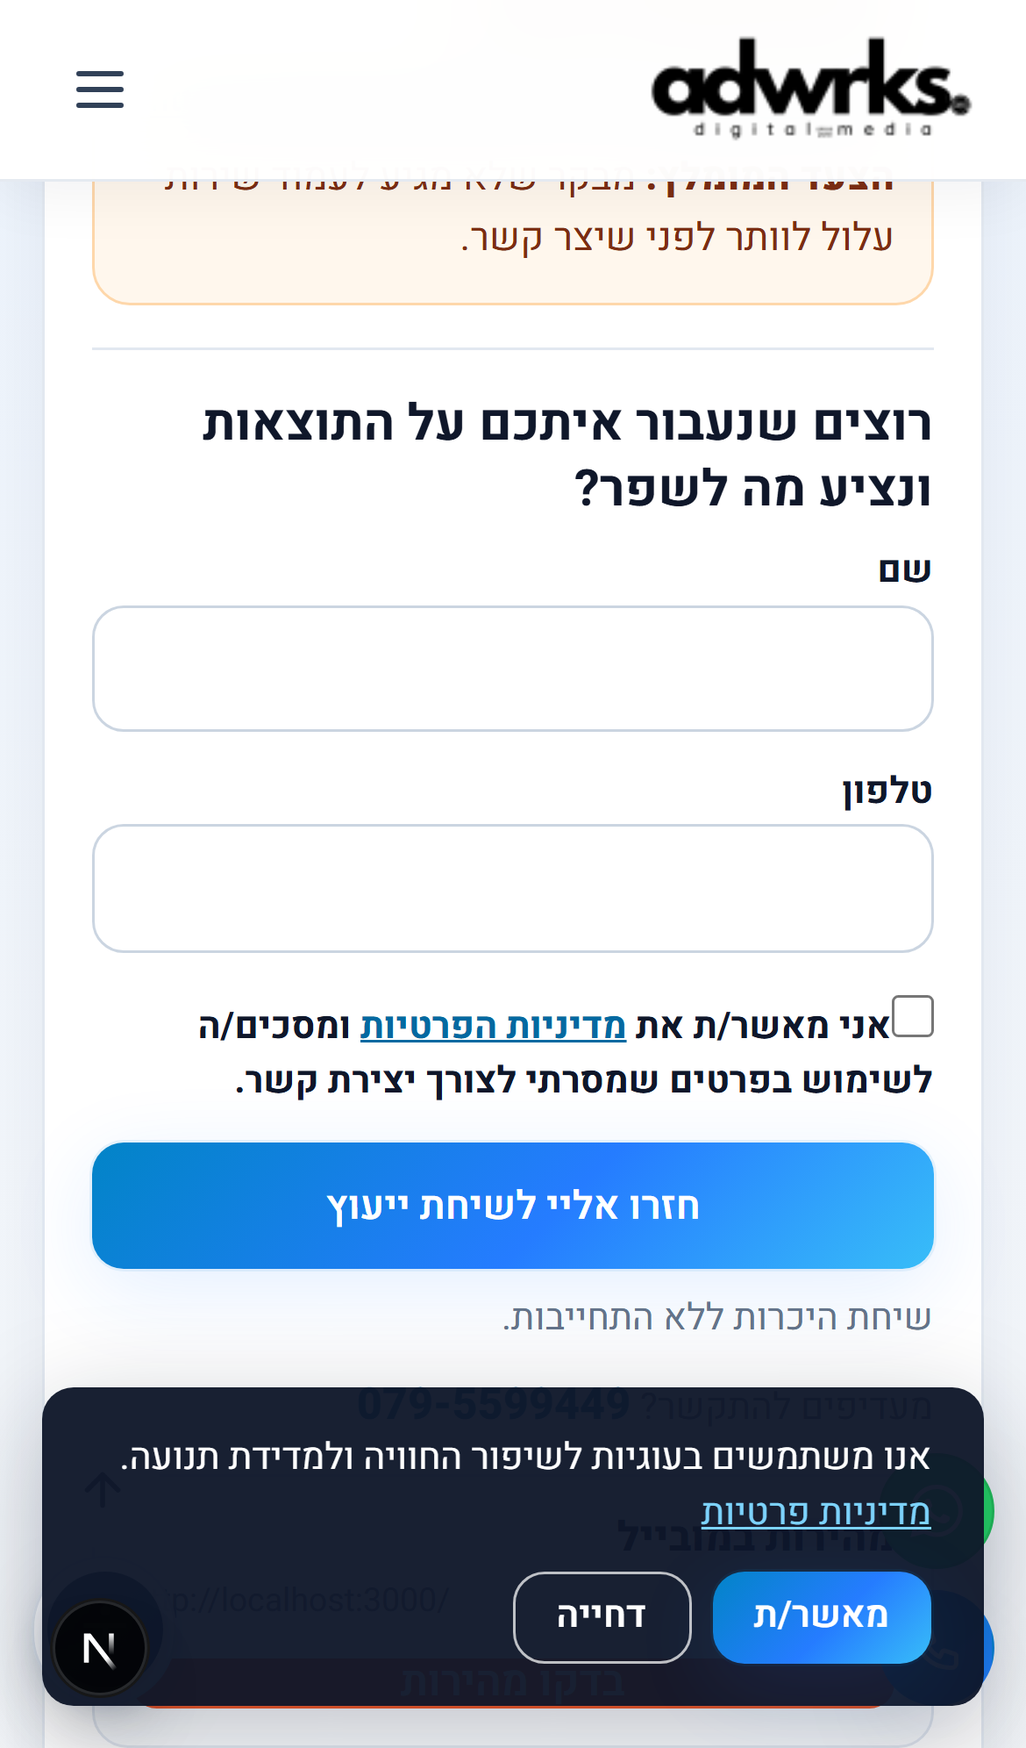
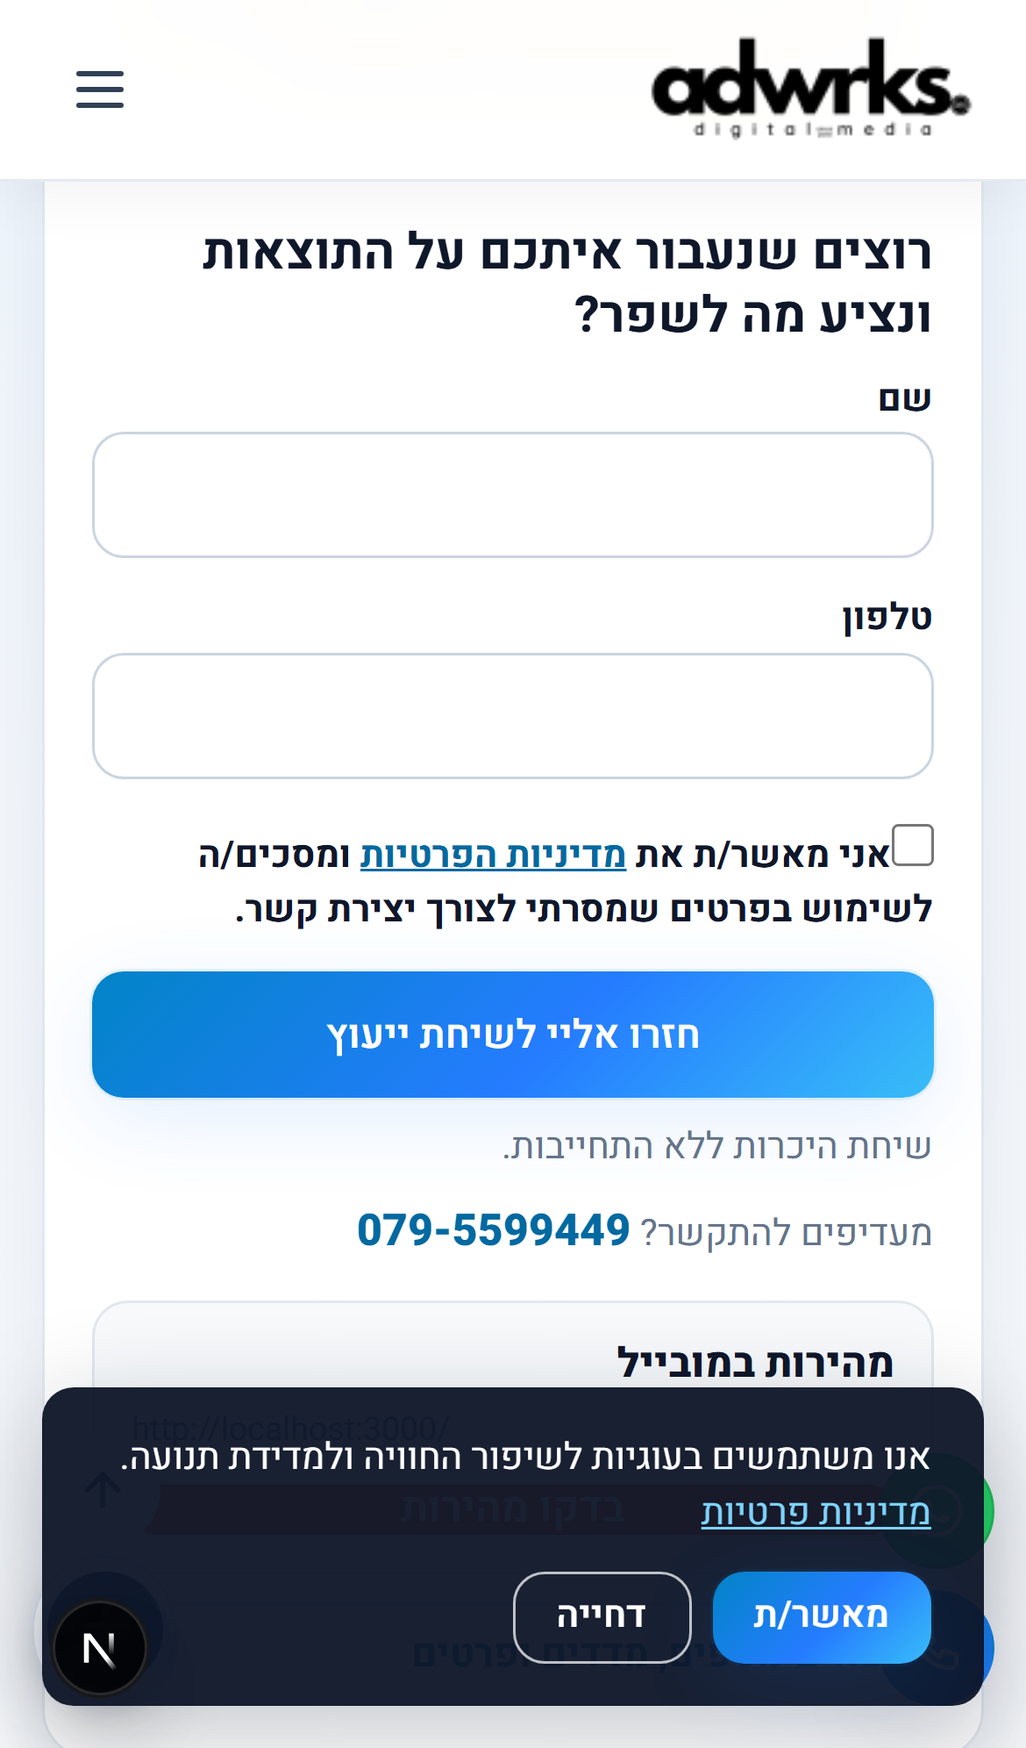
feat(site-check): practical recommended steps per finding type
Each finding shows recommended step and why separately; consult bridge before form; clear-state form asks which pages to grow for inquiries.

diff --git a/web/src/lib/site-check/findings.ts b/web/src/lib/site-check/findings.ts
@@ -265,6 +265,7 @@ const COPY = {
         count > 1
           ? `מצאנו ${count} קישורים שבורים לעמודי שירות או פעולות מרכזיות. לדוגמה: ${example}`
           : `קישור שבור לעמוד שירות או פעולה מרכזית: ${example}`,
+      step: "תקנו את הקישור או עדכנו אותו לעמוד הקיים, ובדקו במובייל שהכפתור מוביל ליעד הנכון.",
       why: "מבקר שלא מגיע לעמוד שירות עלול לוותר לפני שיצר קשר.",
     },
     "noindex-service": {
@@ -272,14 +273,17 @@ const COPY = {
         count > 1
           ? `ל־${count} עמודי שירות או תמחור יש סימון noindex — הם עלולים לא להופיע בחיפוש.`
           : "עמוד שירות או תמחור מסומן ב-noindex.",
+      step: "הסירו noindex מעמודי שירות ותמחור שאתם רוצים לקדם, וודאו שיש להם קישור פנימי מדף הבית.",
       why: "עמוד שמציע שירות אבל חסום לאינדוקס קשה למצוא אותו בגוגל.",
     },
     noindex: {
       observation: "העמוד מסומן ב-noindex.",
+      step: "בדקו אם העמוד צריך להופיע בגוגל — אם כן, הסירו noindex או את תג החסימה במערכת הניהול.",
       why: "עמוד שמסומן כך יכול שלא להופיע בגוגל, גם כשהוא חשוב לשירות.",
     },
     "missing-title": {
       observation: "לא מצאנו כותרת עמוד (title).",
+      step: "הוסיפו כותרת עמוד ייחודית שמתארת את השירות או המוצר, ב־50–60 תווים בערך.",
       why: "בלי כותרת, קשה לגולש ולגוגל להבין במה העמוד עוסק.",
     },
     "duplicate-title": {
@@ -289,6 +293,7 @@ const COPY = {
           : other
             ? `כותרת העמוד זהה לכותרת של «${other}».`
             : "לכמה עמודים חשובים יש אותה כותרת.",
+      step: "תנו לכל עמוד שירות כותרת שונה שמזכירה בדיוק את מה שמוצע שם.",
       why: "כששני עמודים נראים אותו דבר בתוצאות, קשה יותר להגיע לשירות הנכון.",
     },
     "duplicate-description": {
@@ -296,6 +301,7 @@ const COPY = {
         count > 2
           ? `ל־${count} עמודים חשובים יש אותו תיאור מטא (description).`
           : "לשני עמודים חשובים יש אותו תיאור מטא (description).",
+      step: "כתבו תיאור מטא נפרד לכל עמוד חשוב — משפט אחד שמסביר למה ללחוץ עליו בתוצאות החיפוש.",
       why: "כשתיאור המטא זהה, גוגל עלול להציג אותו קטע בכמה עמודים שונים.",
     },
     "broken-image": {
@@ -303,26 +309,32 @@ const COPY = {
         count > 1
           ? `מצאנו ${count} תמונות מרכזיות שלא נטענו (404/410). לדוגמה: ${example}`
           : `תמונה מרכזית לא נטענה (404/410): ${example}`,
+      step: "העלו מחדש את התמונה או עדכנו את הקישור אליה, ודחסו אותה לגודל סביר למובייל.",
       why: "תמונה שבורה בעמוד חשוב פוגעת ברושם הראשוני ובאמינות העמוד.",
     },
     "missing-h1": {
       observation: "לא מצאנו כותרת ראשית (H1) ב-HTML של העמוד.",
+      step: "הוסיפו כותרת ראשית אחת ברורה בראש העמוד — מה אתם מציעים במשפט קצר.",
       why: "בלי כותרת ראשית, מי שנכנס לעמוד עלול לא להבין מיד מה מציעים כאן.",
     },
     "phone-not-tappable": {
       observation: "זיהינו מספר טלפון שאינו לחיץ.",
+      step: "הפכו את המספר לקישור tel: באזור הגלוי, במיוחד בעמוד הבית וביצירת קשר.",
       why: "במובייל זה מוסיף שלב למי שרוצה להתקשר.",
     },
     "no-contact-path": {
       observation: "בעמודים שנבדקו לא מצאנו קישור חיוג, וואטסאפ או טופס.",
+      step: "הוסיפו למעלה בעמוד כפתור «התקשרו» או «השאירו פרטים» שמוביל לטופס או לוואטסאפ.",
       why: "לקוח שכבר נמצא באתר לא רואה דרך ברורה להתקשר או להשאיר פרטים.",
     },
     "nav-missing-contact": {
       observation: "בניווט הראשי לא מצאנו קישור ליצירת קשר.",
+      step: "הוסיפו «יצירת קשר» או «חזרו אליי» לתפריט העליון, גלוי גם במובייל.",
       why: "מי שמחפש איך לפנות אליכם צריך למצוא את זה מחוץ לתפריט.",
     },
     "missing-description": {
       observation: "לא מצאנו תיאור מטא.",
+      step: "כתבו תיאור מטא קצר שמסכם את העמוד ומעודד לחיצה — במיוחד בדף הבית ובשירותים.",
       why: "בגוגל עלול להופיע קטע אקראי מהעמוד במקום משפט שמתאר את השירות.",
     },
     "product-no-purchase": {
@@ -330,6 +342,7 @@ const COPY = {
         count > 1
           ? `ב־${count} עמודי מוצר לא מצאנו כפתור רכישה או הוספה לסל ברור.`
           : "בעמוד מוצר לא מצאנו כפתור רכישה או הוספה לסל ברור.",
+      step: "הציגו כפתור «הוסף לסל» או «לרכישה» גלוי מעל הקיפול במובייל.",
       why: "קונים שמגיעים לעמוד מוצר עלולים לא להבין איך להמשיך לרכישה.",
     },
     whyLabel: "למה זה חשוב",
@@ -340,6 +353,7 @@ const COPY = {
         count > 1
           ? `We found ${count} broken links to service pages or key actions. Example: ${example}`
           : `Broken link to a service page or key action: ${example}`,
+      step: "Fix or replace the link, then tap the button on a phone to confirm it opens the right page.",
       why: "A visitor who can't reach a service page may give up before contacting you.",
     },
     "noindex-service": {
@@ -347,14 +361,17 @@ const COPY = {
         count > 1
           ? `${count} service or pricing pages are marked noindex — they may not appear in search.`
           : "A service or pricing page is marked noindex.",
+      step: "Remove noindex from service and pricing pages you want in Google, and link to them from the homepage.",
       why: "A page that sells a service but blocks indexing is harder to find on Google.",
     },
     noindex: {
       observation: "This page is marked noindex.",
+      step: "If the page should rank, remove noindex in your CMS or SEO plugin and republish.",
       why: "A page marked this way can stay out of Google, even when it matters for the service.",
     },
     "missing-title": {
       observation: "We didn't find a page title.",
+      step: "Add a unique title tag that names the service or product — roughly 50–60 characters.",
       why: "Without a title, visitors and Google have less to go on about what the page offers.",
     },
     "duplicate-title": {
@@ -364,6 +381,7 @@ const COPY = {
           : other
             ? `The page title is the same as «${other}».`
             : "Several important pages share the same title.",
+      step: "Give each service page its own title that says exactly what is offered there.",
       why: "When two pages look the same in search, it's harder to reach the right service.",
     },
     "duplicate-description": {
@@ -371,6 +389,7 @@ const COPY = {
         count > 2
           ? `${count} important pages share the same meta description.`
           : "Two important pages share the same meta description.",
+      step: "Write a separate meta description per important page — one line on why to click.",
       why: "When meta descriptions match, Google may show the same snippet for different pages.",
     },
     "broken-image": {
@@ -378,26 +397,32 @@ const COPY = {
         count > 1
           ? `${count} hero images failed to load (404/410). Example: ${example}`
           : `A hero image failed to load (404/410): ${example}`,
+      step: "Re-upload the image or fix the URL, and compress it for mobile.",
       why: "A broken image on an important page hurts first impressions and trust.",
     },
     "missing-h1": {
       observation: "We didn't find a main heading (H1) in the page HTML.",
+      step: "Add one clear H1 at the top of the page stating what you offer in plain language.",
       why: "Without a main heading, someone landing on the page may not see the offer right away.",
     },
     "phone-not-tappable": {
       observation: "We found a phone number that isn't a tap-to-call link.",
+      step: "Wrap the number in a tel: link on the homepage and contact page.",
       why: "On a phone, that adds a step for someone who wants to call.",
     },
     "no-contact-path": {
       observation: "On the pages we checked, we didn't find a call link, WhatsApp link, or form.",
+      step: "Add a visible «Call us» or «Leave details» button that opens a form or WhatsApp.",
       why: "A visitor who is already on the site doesn't see a clear way to call or leave details.",
     },
     "nav-missing-contact": {
       observation: "The main navigation doesn't include a contact link.",
+      step: "Add «Contact» to the main menu, including the mobile menu.",
       why: "Someone looking for how to reach you has to find it outside the menu.",
     },
     "missing-description": {
       observation: "We didn't find a meta description.",
+      step: "Add a short meta description on the homepage and key service pages.",
       why: "Google may show a random snippet instead of a sentence that describes the service.",
     },
     "product-no-purchase": {
@@ -405,6 +430,7 @@ const COPY = {
         count > 1
           ? `On ${count} product pages we didn't find a clear buy or add-to-cart action.`
           : "On a product page we didn't find a clear buy or add-to-cart action.",
+      step: "Show an «Add to cart» or «Buy» button above the fold on mobile.",
       why: "Shoppers who land on a product page may not see how to continue to purchase.",
     },
     whyLabel: "Why it matters",
@@ -415,51 +441,63 @@ export function presentFindings(issues: RankedIssue[], locale: SiteCheckLocale):
   const copy = COPY[locale];
   return issues.map((issue) => {
     if (issue.type === "duplicate-title") {
+      const block = copy["duplicate-title"];
       return {
         pageLabel: issue.pageLabel,
         pageUrl: issue.pageUrl,
-        observation: copy["duplicate-title"].observation(issue.count ?? 2, issue.otherLabel),
-        why: copy["duplicate-title"].why,
+        observation: block.observation(issue.count ?? 2, issue.otherLabel),
+        recommendedStep: block.step,
+        why: block.why,
       };
     }
     if (issue.type === "broken-link") {
+      const block = copy["broken-link"];
       return {
         pageLabel: issue.pageLabel,
         pageUrl: issue.pageUrl,
-        observation: copy["broken-link"].observation(issue.count ?? 1, issue.exampleUrl ?? issue.pageUrl),
-        why: copy["broken-link"].why,
+        observation: block.observation(issue.count ?? 1, issue.exampleUrl ?? issue.pageUrl),
+        recommendedStep: block.step,
+        why: block.why,
       };
     }
     if (issue.type === "broken-image") {
+      const block = copy["broken-image"];
       return {
         pageLabel: issue.pageLabel,
         pageUrl: issue.pageUrl,
-        observation: copy["broken-image"].observation(issue.count ?? 1, issue.exampleUrl ?? issue.pageUrl),
-        why: copy["broken-image"].why,
+        observation: block.observation(issue.count ?? 1, issue.exampleUrl ?? issue.pageUrl),
+        recommendedStep: block.step,
+        why: block.why,
       };
     }
     if (issue.type === "duplicate-description") {
+      const block = copy["duplicate-description"];
       return {
         pageLabel: issue.pageLabel,
         pageUrl: issue.pageUrl,
-        observation: copy["duplicate-description"].observation(issue.count ?? 2),
-        why: copy["duplicate-description"].why,
+        observation: block.observation(issue.count ?? 2),
+        recommendedStep: block.step,
+        why: block.why,
       };
     }
     if (issue.type === "noindex-service") {
+      const block = copy["noindex-service"];
       return {
         pageLabel: issue.pageLabel,
         pageUrl: issue.pageUrl,
-        observation: copy["noindex-service"].observation(issue.count ?? 1),
-        why: copy["noindex-service"].why,
+        observation: block.observation(issue.count ?? 1),
+        recommendedStep: block.step,
+        why: block.why,
       };
     }
     if (issue.type === "product-no-purchase") {
+      const block = copy["product-no-purchase"];
       return {
         pageLabel: issue.pageLabel,
         pageUrl: issue.pageUrl,
-        observation: copy["product-no-purchase"].observation(issue.count ?? 1),
-        why: copy["product-no-purchase"].why,
+        observation: block.observation(issue.count ?? 1),
+        recommendedStep: block.step,
+        why: block.why,
       };
     }
     const entry = copy[issue.type];
@@ -467,6 +505,7 @@ export function presentFindings(issues: RankedIssue[], locale: SiteCheckLocale):
       pageLabel: issue.pageLabel,
       pageUrl: issue.pageUrl,
       observation: entry.observation,
+      recommendedStep: entry.step,
       why: entry.why,
     };
   });

diff --git a/web/src/lib/pages/site-check/copy.ts b/web/src/lib/pages/site-check/copy.ts
@@ -28,6 +28,7 @@ export type SiteCheckCopy = {
   /** Plain-language summary when no priority finding (clear scan). */
   clearBusinessSummary: string;
   recommendedStepLabel: string;
+  findingConsultBridge: string;
   moreFindingsDetailsLabel: string;
   scopeHeading: string;
   topicSeoTitle: string;
@@ -105,6 +106,8 @@ const HE: SiteCheckCopy = {
   clearBusinessSummary:
     "בבדיקה הראשונית האתר נראה מסודר: לא מצאנו בעיה בולטת שמונעת ממבקר להבין מה אתם מציעים או ליצור איתכם קשר. אפשר להמשיך לקדם את האתר בלי תיקון דחוף.",
   recommendedStepLabel: "הצעד המומלץ",
+  findingConsultBridge:
+    "בשיחה נעבור איתכם על מה שמצאנו ונמליץ מה כדאי לתקן קודם ומה שווה לקדם בגוגל.",
   moreFindingsDetailsLabel: "ממצאים נוספים, מדדים ופרטים",
   scopeHeading: "מה נבדק",
   topicSeoTitle: "כותרות והגדרות חיפוש",
@@ -124,7 +127,7 @@ const HE: SiteCheckCopy = {
   noFindingsTitle: "בבדיקות שביצענו לא נמצא ממצא בולט",
   positiveHeading: "מה בדקנו ונראה תקין",
   formTitle: "רוצים שנעבור איתכם על התוצאות ונציע מה לשפר?",
-  formTitleClear: "רוצים לתכנן את הצעד הבא?",
+  formTitleClear: "רוצים לדעת אילו עמודים כדאי לקדם כדי לקבל יותר פניות?",
   formTitleFailure: "רוצים שנבדוק את האתר ונחזור אליכם?",
   formBody: "",
   formBodyClear:
@@ -221,6 +224,8 @@ const EN: SiteCheckCopy = {
   clearBusinessSummary:
     "In this first check the site looks orderly: we did not find a standout issue that would stop someone from understanding your offer or getting in touch. You can keep growing visibility without an urgent fix.",
   recommendedStepLabel: "Recommended next step",
+  findingConsultBridge:
+    "On a call we’ll walk through what we found and suggest what to fix first and what’s worth growing on Google.",
   moreFindingsDetailsLabel: "More findings, metrics, and details",
   scopeHeading: "What we checked",
   topicSeoTitle: "Titles and search snippets",
@@ -240,7 +245,7 @@ const EN: SiteCheckCopy = {
   noFindingsTitle: "Nothing standout showed up in the checks we ran",
   positiveHeading: "What looked fine in this check",
   formTitle: "Want us to walk through the results and suggest what to fix?",
-  formTitleClear: "Want to plan the next step?",
+  formTitleClear: "Want to know which pages to grow for more inquiries?",
   formTitleFailure: "Want us to check the site and get back to you?",
   formBody: "",
   formBodyClear:

diff --git a/web/src/components/tools/SiteCheckTool.tsx b/web/src/components/tools/SiteCheckTool.tsx
@@ -396,8 +396,13 @@ export function SiteCheckTool({
                     </a>
                     <p className="site-check-recommended-step">
                       <span className="site-check-recommended-step-label">{copy.recommendedStepLabel}: </span>
+                      {primaryFinding.recommendedStep}
+                    </p>
+                    <p className="site-check-finding-why">
+                      <span>{copy.impactLabel}: </span>
                       {primaryFinding.why}
                     </p>
+                    <p className="site-check-consult-bridge">{copy.findingConsultBridge}</p>
                   </>
                 ) : (
                   <>
@@ -547,6 +552,10 @@ export function SiteCheckTool({
                         <a href={finding.pageUrl} className="site-check-finding-example" dir="ltr">
                           {finding.pageUrl}
                         </a>
+                        <p className="site-check-recommended-step site-check-recommended-step--compact">
+                          <span className="site-check-recommended-step-label">{copy.recommendedStepLabel}: </span>
+                          {finding.recommendedStep}
+                        </p>
                         <p className="site-check-finding-impact">
                           {copy.impactLabel}: {finding.why}
                         </p>

diff --git a/web/src/app/globals.css b/web/src/app/globals.css
@@ -14836,6 +14836,28 @@ body.contextual-popup-open {
   font-weight: 800;
 }
 
+.site-check-finding-why {
+  color: #9a3412;
+  font-size: 0.88rem;
+  line-height: 1.55;
+  margin: 0.45rem 0 0;
+}
+
+.site-check-consult-bridge {
+  border-top: 1px solid #fed7aa;
+  color: #7c2d12;
+  font-size: 0.92rem;
+  font-weight: 600;
+  line-height: 1.55;
+  margin: 0.65rem 0 0;
+  padding-top: 0.55rem;
+}
+
+.site-check-recommended-step--compact {
+  font-size: 0.88rem;
+  margin-top: 0.35rem;
+}
+
 .site-check-speed-card--after-form {
   margin-top: 0.65rem;
 }

diff --git a/web/src/lib/site-check/report.ts b/web/src/lib/site-check/report.ts
@@ -152,6 +152,11 @@ export function buildLeadNote(input: {
     input.findings.forEach((finding, index) => {
       lines.push(`${index + 1}. ${finding.pageLabel} — ${finding.pageUrl}`);
       lines.push(finding.observation);
+      lines.push(
+        input.locale === "en"
+          ? `Recommended next step: ${finding.recommendedStep}`
+          : `הצעד המומלץ: ${finding.recommendedStep}`,
+      );
       lines.push(`${whyLabel(input.locale)}: ${finding.why}`);
     });
   }

diff --git a/web/src/lib/site-check/types.ts b/web/src/lib/site-check/types.ts
@@ -41,6 +41,8 @@ export type SiteCheckFinding = {
   pageLabel: string;
   pageUrl: string;
   observation: string;
+  /** Short practical next step for the site owner. */
+  recommendedStep: string;
   why: string;
 };
 
